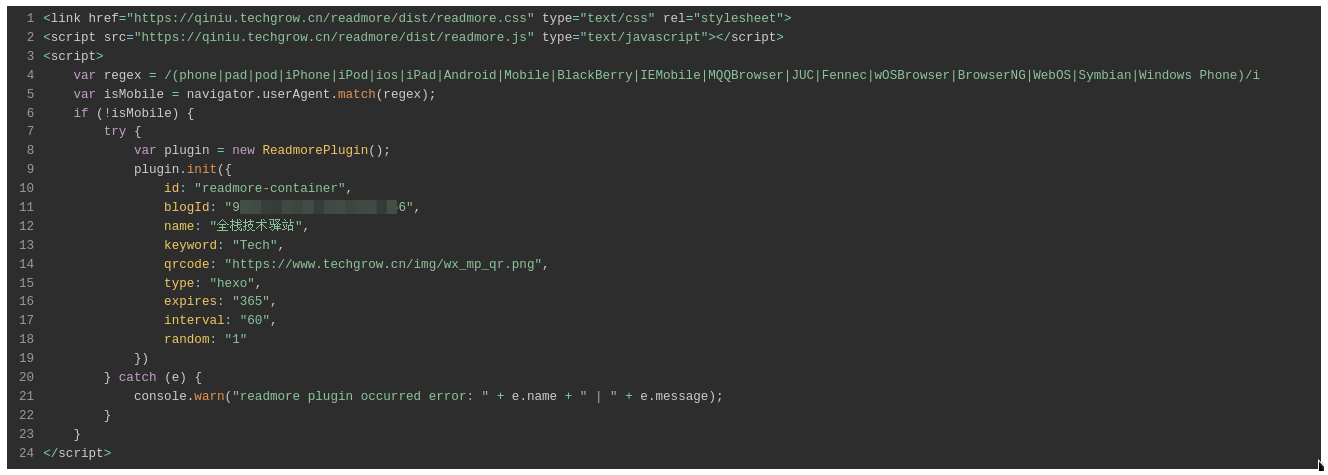
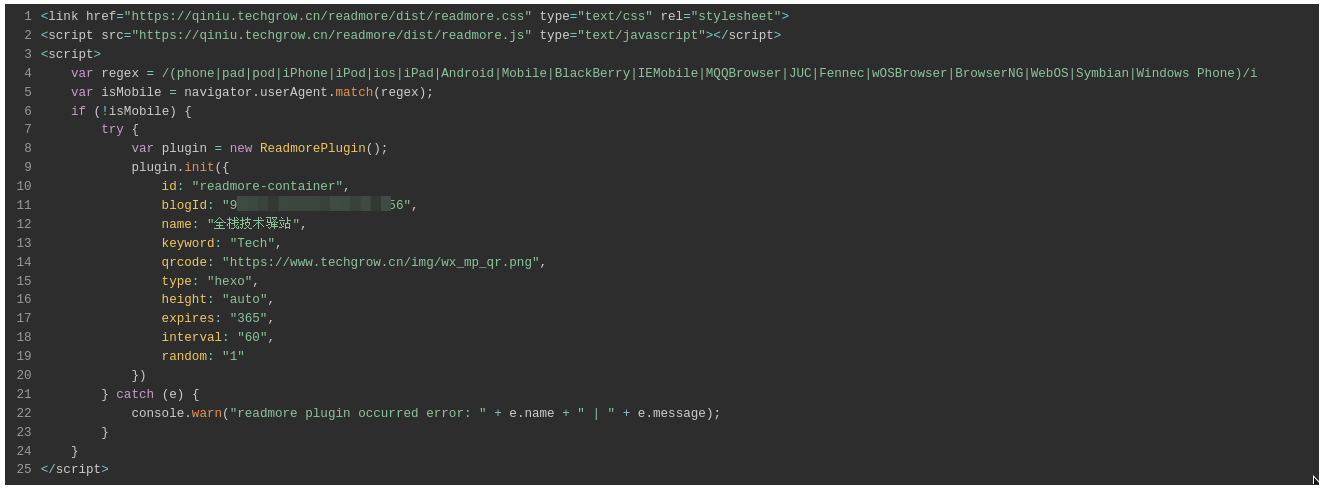
feat: update pages

Changed region(s): [[0.0, 0.0, 1.0, 1.0], [0.093, 0.2947, 0.4029, 0.7368], [0.062, 0.7368, 0.5578, 0.8547]]

diff --git a/docs/wechat/vuepress2/README.md b/docs/wechat/vuepress2/README.md
@@ -57,7 +57,7 @@ npm view vuepress-plugin-readmore-popular-next versions
 npm install -D vuepress-plugin-readmore-popular-next
 
 # 安装指定版本（推荐）
-npm install -D vuepress-plugin-readmore-popular-next@2.0.0-beta.48.6
+npm install -D vuepress-plugin-readmore-popular-next@2.0.0-beta.48.7
 ```
 
 ## 配置 VuePress
@@ -88,6 +88,8 @@ module.exports = {
       excludes: { strExp: [], regExp: [] },
       // 是否反转 URL 排除规则的配置，即只有符合排除规则的文章才会添加引流工具
       reverse: false,
+      // 文章内容的预览高度
+      height: 'auto',
       // 文章解锁后凭证的有效天数
       expires: 365,
       // 定时校验凭证有效性的时间间隔（秒）
@@ -101,20 +103,21 @@ module.exports = {
 
 ## 插件参数说明
 
-| 参数     | 类型        | 必填 | 默认值                                               | 说明 |
-| -------- | ----------- | ---- | ---------------------------------------------------- | ---- |
-| blogId   | String      | 是   | 无                                                   | -    |
-| name     | String      | 是   | 无                                                   | -    |
-| keyword  | String      | 是   | 无                                                   | -    |
-| qrcode   | String      | 是   | 无                                                   | -    |
-| selector | String      | 否   | `div.theme-default-content`                          | -    |
-| libUrl   | String      | 否   | https://qiniu.techgrow.cn/readmore/dist/readmore.js  | -    |
-| cssUrl   | String      | 否   | https://qiniu.techgrow.cn/readmore/dist/vuepress.css | -    |
-| excludes | Json Object | 否   | `{ strExp: [ ], regExp: [ ] }`                       | -    |
-| reverse  | Boolean     | 否   | `false`                                              | -    |
-| expires  | Number      | 否   | `365`                                                | -    |
-| interval | Number      | 否   | `60`                                                 | -    |
-| random   | Number      | 否   | `1`                                                  | -    |
+| 参数     | 类型            | 必填 | 默认值                                               | 说明 |
+| -------- | --------------- | ---- | ---------------------------------------------------- | ---- |
+| blogId   | String          | 是   | 无                                                   | -    |
+| name     | String          | 是   | 无                                                   | -    |
+| keyword  | String          | 是   | 无                                                   | -    |
+| qrcode   | String          | 是   | 无                                                   | -    |
+| selector | String          | 否   | `div.theme-default-content`                          | -    |
+| libUrl   | String          | 否   | https://qiniu.techgrow.cn/readmore/dist/readmore.js  | -    |
+| cssUrl   | String          | 否   | https://qiniu.techgrow.cn/readmore/dist/vuepress.css | -    |
+| excludes | Json Object     | 否   | `{ strExp: [ ], regExp: [ ] }`                       | -    |
+| reverse  | Boolean         | 否   | `false`                                              | -    |
+| height   | String / Number | 否   | `auto`                                               | -    |
+| expires  | Number          | 否   | `365`                                                | -    |
+| interval | Number          | 否   | `60`                                                 | -    |
+| random   | Number          | 否   | `1`                                                  | -    |
 
 `selector` 参数的作用是指定 JS 选择器来获取文章的主体内容，若 VuePress 使用了第三方主题，则一般需要根据第三方主题来配置该参数，否则可能会导致引流工具无法生效。其中 VuePress 不同主题的配置示例如下：
 

diff --git a/docs/wechat/vuepress/README.md b/docs/wechat/vuepress/README.md
@@ -74,6 +74,8 @@ module.exports = {
       excludes: { strExp: [], regExp: [] },
       // 是否反转 URL 排除规则的配置，即只有符合排除规则的文章才会添加引流工具
       reverse: false,
+      // 文章内容的预览高度
+      height: 'auto',
       // 文章解锁后凭证的有效天数
       expires: 365,
       // 定时校验凭证有效性的时间间隔（秒）
@@ -87,20 +89,21 @@ module.exports = {
 
 ## 插件参数说明
 
-| 参数     | 类型        | 必填 | 默认值                                               | 说明 |
-| -------- | ----------- | ---- | ---------------------------------------------------- | ---- |
-| blogId   | String      | 是   | 无                                                   | -    |
-| name     | String      | 是   | 无                                                   | -    |
-| keyword  | String      | 是   | 无                                                   | -    |
-| qrcode   | String      | 是   | 无                                                   | -    |
-| selector | String      | 否   | `div.theme-default-content`                          | -    |
-| libUrl   | String      | 否   | https://qiniu.techgrow.cn/readmore/dist/readmore.js  | -    |
-| cssUrl   | String      | 否   | https://qiniu.techgrow.cn/readmore/dist/vuepress.css | -    |
-| excludes | Json Object | 否   | `{ strExp: [ ], regExp: [ ] }`                       | -    |
-| reverse  | Boolean     | 否   | `false`                                              | -    |
-| expires  | Number      | 否   | `365`                                                | -    |
-| interval | Number      | 否   | `60`                                                 | -    |
-| random   | Number      | 否   | `1`                                                  | -    |
+| 参数     | 类型            | 必填 | 默认值                                               | 说明 |
+| -------- | --------------- | ---- | ---------------------------------------------------- | ---- |
+| blogId   | String          | 是   | 无                                                   | -    |
+| name     | String          | 是   | 无                                                   | -    |
+| keyword  | String          | 是   | 无                                                   | -    |
+| qrcode   | String          | 是   | 无                                                   | -    |
+| selector | String          | 否   | `div.theme-default-content`                          | -    |
+| libUrl   | String          | 否   | https://qiniu.techgrow.cn/readmore/dist/readmore.js  | -    |
+| cssUrl   | String          | 否   | https://qiniu.techgrow.cn/readmore/dist/vuepress.css | -    |
+| excludes | Json Object     | 否   | `{ strExp: [ ], regExp: [ ] }`                       | -    |
+| reverse  | Boolean         | 否   | `false`                                              | -    |
+| height   | String / Number | 否   | `auto`                                               | -    |
+| expires  | Number          | 否   | `365`                                                | -    |
+| interval | Number          | 否   | `60`                                                 | -    |
+| random   | Number          | 否   | `1`                                                  | -    |
 
 `selector` 参数的作用是指定 JS 选择器来获取文章的主体内容，若 VuePress 使用了第三方主题，则一般需要根据第三方主题来配置该参数，否则可能会导致引流工具无法生效。其中 VuePress 不同主题的配置示例如下：
 

diff --git a/docs/wechat/hexo/README.md b/docs/wechat/hexo/README.md
@@ -65,6 +65,8 @@ readmore:
   libUrl: 'https://qiniu.techgrow.cn/readmore/dist/readmore.js'
   # 自定义的 CSS 资源链接，可用于适配不同风格的博客
   cssUrl: 'https://qiniu.techgrow.cn/readmore/dist/hexo.css'
+  # 文章内容的预览高度
+  height: 'auto'
   # 文章解锁后凭证的有效天数
   expires: 365
   # 定时校验凭证有效性的时间间隔（秒）
@@ -77,18 +79,19 @@ readmore:
 
 ## 参数说明
 
-| 参数     | 类型    | 必填 | 默认值                                                | 说明 |
-| -------- | ------- | ---- | ----------------------------------------------------- | ---- |
-| enable   | Boolean | 是   | `false`                                               | -    |
-| blogId   | String  | 是   |                                                       | -    |
-| name     | String  | 是   |                                                       | -    |
-| keyword  | String  | 是   |                                                       | -    |
-| qrcode   | String  | 是   |                                                       | -    |
-| libUrl   | String  | 否   | `https://qiniu.techgrow.cn/readmore/dist/readmore.js` | -    |
-| cssUrl   | String  | 否   | `https://qiniu.techgrow.cn/readmore/dist/hexo.css`    | -    |
-| expires  | Number  | 否   | `365`                                                 | -    |
-| interval | Number  | 否   | `60`                                                  | -    |
-| random   | Number  | 否   | `1`                                                   | -    |
+| 参数     | 类型            | 必填 | 默认值                                                | 说明 |
+| -------- | --------------- | ---- | ----------------------------------------------------- | ---- |
+| enable   | Boolean         | 是   | `false`                                               | -    |
+| blogId   | String          | 是   |                                                       | -    |
+| name     | String          | 是   |                                                       | -    |
+| keyword  | String          | 是   |                                                       | -    |
+| qrcode   | String          | 是   |                                                       | -    |
+| libUrl   | String          | 否   | `https://qiniu.techgrow.cn/readmore/dist/readmore.js` | -    |
+| cssUrl   | String          | 否   | `https://qiniu.techgrow.cn/readmore/dist/hexo.css`    | -    |
+| height   | String / Number | 否   | `auto`                                                | -    |
+| expires  | Number          | 否   | `365`                                                 | -    |
+| interval | Number          | 否   | `60`                                                  | -    |
+| random   | Number          | 否   | `1`                                                   | -    |
 
 ## 构建 Hexo
 

diff --git a/docs/wechat/common/README.md b/docs/wechat/common/README.md
@@ -111,6 +111,7 @@ description: 博客引流微信公众号
 | name     | 是   |         | 已申请的微信公众号名称                                                                                                  |
 | qrcode   | 是   |         | 已申请的微信公众号二维码图片                                                                                            |
 | keyword  | 是   |         | 已申请的微信公众号回复关键词                                                                                            |
+| height   | 否   | `auto`  | 文章内容的预览高度                                                                                                      |
 | expires  | 否   | `365`   | 文章解锁后凭证的有效天数                                                                                                |
 | interval | 否   | `60`    | 定时校验凭证有效性的时间间隔（秒）                                                                                      |
 | type     | 否   | `other` | 博客类型，包括：`hexo`、`vuepress`、`vuepress2`、`hugo`、`gatsby`、`jekyll`、`docsify`、`typecho`、`wordpress`、`other` |
